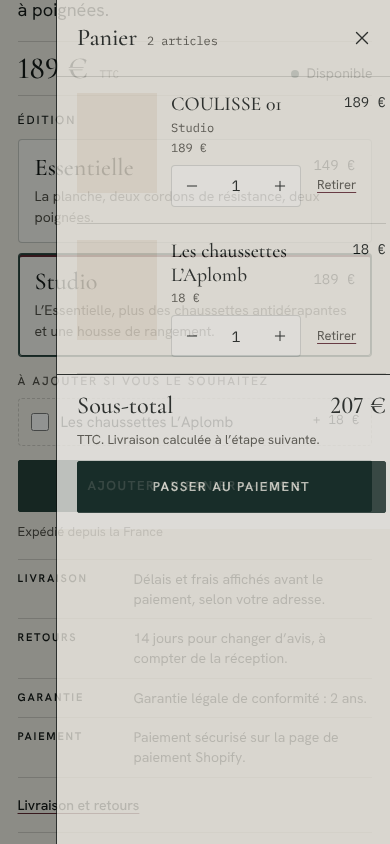
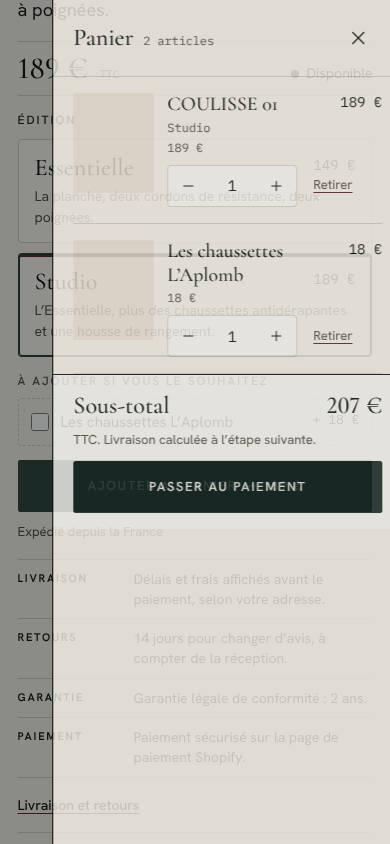
Liens vers les familles seulement si la collection est publiée
Sur l'aperçu Shopify, une collection non publiée reste lisible en Liquid mais
sa page renvoie une 404 : on exige désormais published_at. En-tête et menu
mobile masqués quand aucun lien n'est visible. Serveur d'aperçu aligné sur ce
comportement ; test ajouté. Documentation : quiz et mesure.

Claude-Session: https://claude.ai/code/session_01JVxC767RbYfVA3orWDdFnz

diff --git a/tools/apercu/serveur.js b/tools/apercu/serveur.js
@@ -6,9 +6,9 @@
  *
  * Usage : MODE=vente PORT=8765 node tools/apercu/serveur.js
  *   MODE      waitlist | reservation | vente (défaut : vente)
- *   PRODUITS  presents (défaut) | absents  (simule des produits en brouillon :
- *             les réglages produit et collection sont vides, comme sur la
- *             boutique tant que rien n’est publié)
+ *   PRODUITS  presents (défaut) | absents  (simule des produits en brouillon et
+ *             des collections non publiées, comme sur la boutique avant
+ *             l’ouverture : produits vides en Liquid, collections sans published_at)
  *
  * Routes : /  /products/:handle  /collections/:handle  /pages/trouver-mon-equipement
  *          /cart  /checkout  POST /cart/add.js  /cart/change.js  /cart  /contact
@@ -107,7 +107,7 @@ const parHandle = (h) => (ABSENTS ? null : CATALOGUE.find((p) => p.handle === h)
 const toutesVariantes = () => CATALOGUE.flatMap((p) => p.variants);
 
 const collection = (handle, title, produits, numero, description) => ({
-  id: handle.length * 1000, handle, title, url: `/collections/${handle}`, description,
+  id: handle.length * 1000, handle, title, url: `/collections/${handle}`, description, published_at: '2026-11-01T09:00:00Z',
   products: produits, products_count: produits.length, metafields: { aplomb: { numero } },
 });
 const COLLECTIONS = {
@@ -179,11 +179,14 @@ Object.assign(settings, {
   launch_mode: MODE,
   produit_principal: parHandle('coulisse-01'),
   produit_reservation: parHandle('reservation-prioritaire'),
-  collection_essentiels: ABSENTS ? null : COLLECTIONS['les-essentiels'],
-  collection_coulisse: ABSENTS ? null : COLLECTIONS.coulisse,
-  collection_atelier: ABSENTS ? null : COLLECTIONS['reformers-atelier'],
-  page_quiz: PAGES['trouver-mon-equipement'],
-  page_livraison: PAGES['livraison-et-retours'],
+  // Comme observé sur Shopify : une collection non publiée reste lisible en
+  // Liquid (sans published_at), mais sa page renvoie une 404 aux visiteurs.
+  collection_essentiels: ABSENTS ? { ...COLLECTIONS['les-essentiels'], published_at: null, products: [], products_count: 0 } : COLLECTIONS['les-essentiels'],
+  collection_coulisse: ABSENTS ? { ...COLLECTIONS.coulisse, published_at: null, products: [], products_count: 0 } : COLLECTIONS.coulisse,
+  collection_atelier: ABSENTS ? { ...COLLECTIONS['reformers-atelier'], published_at: null, products: [], products_count: 0 } : COLLECTIONS['reformers-atelier'],
+  // Une page non publiée est vide en Liquid (observé sur l’aperçu Shopify).
+  page_quiz: ABSENTS ? null : PAGES['trouver-mon-equipement'],
+  page_livraison: ABSENTS ? null : PAGES['livraison-et-retours'],
 });
 
 /* Résout les réglages typés (produit, collection, page, image…) d’un schéma. */

diff --git a/tools/tests/parcours.js b/tools/tests/parcours.js
@@ -264,6 +264,9 @@ const reinitialiser = (p, base = VENTE) => p.request.get(`${base}/__reinitialise
     ok(await p.locator('#liste-cloture').count() === 1, 'liste d’attente de clôture absente');
     ok(await p.locator('dialog[data-tiroir]').count() === 0, 'tiroir rendu en liste d’attente');
     ok(await p.locator('.famille__prix--attente').count() === 3, 'familles sans prix attendues');
+    ok(await p.locator('.lien-famille').count() === 0, 'lien vers une collection non publiée (404)');
+    ok(await p.locator('.famille__lien').count() === 0, 'carte de famille liée à une collection non publiée');
+    ok(await p.locator('details.menu-mobile').count() === 0, 'menu mobile vide affiché');
     const q = p.locator('aplomb-quiz');
     for (const t of ['routine', 'déjà', 'compact', 'polyvalente']) {
       await q.locator('.quiz__option:visible', { hasText: t }).click();

diff --git a/docs/analytics.md b/docs/analytics.md
@@ -1,0 +1,84 @@
+# Mesure et plan de marquage
+
+## Principe
+
+- **Shopify émet lui-même les événements standard** : `page_viewed`, `product_viewed`, `collection_viewed`, `product_added_to_cart`, `cart_viewed`, `checkout_started`, `checkout_completed`. Ils couvrent aussi les ajouts faits par le panier AJAX. Le thème ne les republie pas, donc il n’y a ni doublon ni achat compté deux fois.
+- **Le thème publie ses propres événements**, préfixés `aplomb_`, avec `Shopify.analytics.publish(nom, données)`. Ils arrivent aux pixels personnalisés, qui appliquent le consentement de la Customer Privacy API (bandeau cookies natif de Shopify).
+- **Les mêmes événements sont poussés dans `window.dataLayer`** de la page. C’est utile pour le débogage, mais le thème ne charge aucun script tiers et n’envoie rien de lui-même.
+- **Aucune donnée personnelle** n’entre dans les événements du thème : ni e-mail, ni nom, ni réponse libre.
+
+## Événements du thème
+
+| Événement | Source | Données |
+|---|---|---|
+| `aplomb_cta_click` | Liens `data-suivi` du hero | `cta` (`hero_produit`, `hero_quiz`), `href` |
+| `aplomb_quiz_started` | Quiz | `quiz_id`, `mode` |
+| `aplomb_quiz_step_completed` | Quiz | `quiz_id`, `etape`, `question`, `reponse` |
+| `aplomb_quiz_completed` | Quiz | `quiz_id`, `reponses` |
+| `aplomb_recommendation_displayed` | Quiz | `quiz_id`, `famille`, `produit_id`, `produit_titre`, `famille_ecartee` |
+| `aplomb_recommendation_cta` | Quiz | `quiz_id`, `famille`, `action` |
+| `aplomb_quiz_exit` / `aplomb_quiz_restarted` | Quiz | `quiz_id`, `etape` |
+| `aplomb_ajout_panier_contexte` | Panier AJAX | `contexte` (id du formulaire : `achat-produit-…`, `achat-quiz-coulisse-…`, `achat-vedette-…`), `variant_id`, `quantite`, `complements` |
+| `aplomb_panier_ouvert` | Tiroir | — |
+
+`aplomb_ajout_panier_contexte` ne remplace pas `product_added_to_cart`. Il dit seulement **d’où** vient l’ajout : fiche produit, quiz ou produit vedette.
+
+## Correspondance GA4 et Meta
+
+| Étape du tunnel | Événement Shopify ou thème | GA4 | Meta |
+|---|---|---|---|
+| Vue de page | `page_viewed` | `page_view` | `PageView` |
+| Vue produit | `product_viewed` | `view_item` | `ViewContent` |
+| Quiz commencé | `aplomb_quiz_started` | `quiz_start` (personnalisé) | `aplomb_quiz_started` (personnalisé) |
+| Étape du quiz | `aplomb_quiz_step_completed` | `quiz_step` | — |
+| Quiz terminé | `aplomb_quiz_completed` | `quiz_complete` | `CompleteRegistration` (facultatif) |
+| Recommandation affichée | `aplomb_recommendation_displayed` | `view_promotion` ou `recommendation_view` | — |
+| Ajout au panier | `product_added_to_cart` | `add_to_cart` | `AddToCart` |
+| Début du paiement | `checkout_started` | `begin_checkout` | `InitiateCheckout` |
+| Achat | `checkout_completed` (**une seule source**) | `purchase` | `Purchase` |
+
+## Installer un pixel personnalisé
+
+Le code se colle dans Shopify > Réglages > Événements clients > Ajouter un pixel personnalisé. L’installation est gratuite.
+
+Pour les autorisations, choisir « Requis » pour l’analyse et pour le marketing. Shopify n’exécute alors le pixel qu’avec le consentement de la visiteuse.
+
+```js
+// Pixel personnalisé L’Aplomb : relaie événements standard et événements du thème.
+// Remplacer G-XXXXXXX par l’identifiant GA4 quand il existe. Ne rien coller d’autre ici.
+const GA4 = 'G-XXXXXXX';
+const s = document.createElement('script');
+s.async = true;
+s.src = `https://www.googletagmanager.com/gtag/js?id=${GA4}`;
+document.head.appendChild(s);
+window.dataLayer = window.dataLayer || [];
+function gtag() { dataLayer.push(arguments); }
+gtag('js', new Date());
+gtag('config', GA4, { send_page_view: false });
+
+const prixArticle = (v) => ({ item_id: v?.product?.id, item_name: v?.product?.title, item_variant: v?.title, price: v?.price?.amount });
+
+analytics.subscribe('page_viewed', () => gtag('event', 'page_view'));
+analytics.subscribe('product_viewed', (e) => {
+  const v = e.data.productVariant;
+  gtag('event', 'view_item', { currency: v.price.currencyCode, value: v.price.amount, items: [prixArticle(v)] });
+});
+analytics.subscribe('product_added_to_cart', (e) => {
+  const l = e.data.cartLine;
+  gtag('event', 'add_to_cart', { currency: l.cost.totalAmount.currencyCode, value: l.cost.totalAmount.amount, items: [{ ...prixArticle(l.merchandise), quantity: l.quantity }] });
+});
+analytics.subscribe('checkout_started', (e) => {
+  const c = e.data.checkout;
+  gtag('event', 'begin_checkout', { currency: c.currencyCode, value: c.totalPrice?.amount });
+});
+analytics.subscribe('checkout_completed', (e) => {
+  const c = e.data.checkout;
+  gtag('event', 'purchase', { transaction_id: c.order?.id, currency: c.currencyCode, value: c.totalPrice?.amount });
+});
+['aplomb_quiz_started', 'aplomb_quiz_step_completed', 'aplomb_quiz_completed', 'aplomb_recommendation_displayed',
+ 'aplomb_recommendation_cta', 'aplomb_ajout_panier_contexte'].forEach((nom) => {
+  analytics.subscribe(nom, (e) => gtag('event', nom, e.customData || {}));
+});
+```
+
+Ce code n’a pas été exécuté sur la boutique : aucun identifiant GA4 n’existe encore. Avant l’activation, il faut le vérifier avec le débogueur de pixels de Shopify et le DebugView de GA4.

diff --git a/docs/quiz.md b/docs/quiz.md
@@ -1,0 +1,80 @@
+# Le quiz « Trouver mon équipement »
+
+Section : `sections/aplomb-quiz.liquid`. Script : `assets/aplomb-quiz.js`, chargé seulement par cette section.
+On le trouve à deux endroits : sur l’accueil (disposition « Intégré ») et sur la page `trouver-mon-equipement`, qui utilise le modèle `page.pilates-quiz` (disposition « Page dédiée »).
+
+## Ce que voit la visiteuse
+
+1. Quatre questions, une à la fois. La barre de progression a 4 segments et le texte « Question n sur 4 » est annoncé aux lecteurs d’écran.
+2. **Au toucher ou au clic**, choisir une réponse passe à la question suivante après 220 ms, sans délai si l’utilisateur a demandé moins de mouvement.
+3. **Au clavier**, les flèches changent la réponse sans rien valider. Entrée ou le bouton « Continuer » valide.
+4. « Continuer » sans réponse affiche un message (`role="alert"`) et place le focus sur la première réponse.
+5. « Retour » revient à la question précédente sans perdre les réponses.
+6. Le lien « Passer et voir la boutique » reste visible à chaque étape. Le quiz n’est jamais obligatoire.
+7. Le résultat affiche :
+   - le produit recommandé, avec son prix réel ;
+   - le bouton d’achat ou la liste d’attente, selon l’état du produit ;
+   - les arguments tirés des réponses ;
+   - les faits vérifiés : dimensions et poids, si les metafields sont remplis ;
+   - le récapitulatif des réponses ;
+   - « Refaire le quiz » ;
+   - une note médicale.
+
+## Mémoire et historique
+
+- Les réponses sont gardées dans `sessionStorage` (clé `aplomb-quiz:<identifiant>`) jusqu’à la fermeture de l’onglet. Aucune donnée personnelle n’y est enregistrée.
+- Au rechargement, la visiteuse retrouve son étape, ou son résultat.
+- **En page dédiée**, chaque étape crée une entrée d’historique, et le bouton Retour du navigateur revient à la question précédente.
+- **En disposition intégrée**, le quiz ne touche pas à l’historique.
+
+## Recommandation
+
+Chaque réponse oriente vers une ou deux familles. La question a un poids de 1 à 3. Une réponse qui oriente vers une famille donne `2 × poids` points à cette famille. Si elle oriente vers deux familles, chacune reçoit `poids` points.
+
+- **Égalité.** On départage par la famille de la question au poids le plus fort. Si l’égalité persiste, COULISSE l’emporte.
+- **Écart.** Une réponse peut écarter une famille. Par défaut, « Un petit espace » écarte les Reformers Atelier. Si la famille écartée arrivait en tête, on recommande la suivante, et le résultat explique pourquoi.
+
+Réglages par défaut (`tools/build_templates.py`) :
+
+| Question (poids) | Réponse | Oriente vers | Écarte |
+|---|---|---|---|
+| Objectif (1) | Renforcement et tonicité | Coulisse + Atelier | — |
+| | Mobilité et souplesse | Essentiels + Coulisse | — |
+| | Reprendre une activité régulière | Essentiels + Coulisse | — |
+| | Installer une routine Pilates chez soi | Coulisse | — |
+| Niveau (1) | Je débute | Essentiels + Coulisse | — |
+| | J’ai déjà pratiqué | Coulisse | — |
+| | Je pratique régulièrement | Coulisse + Atelier | — |
+| Équipement (3) | Un kit simple et accessible | Essentiels | — |
+| | Un appareil compact et polyvalent | Coulisse | — |
+| | Une expérience proche d’un studio | Atelier | — |
+| Espace (2) | Un petit espace | Essentiels + Coulisse | Atelier |
+| | Une pièce polyvalente | Coulisse + Atelier | — |
+| | Un espace dédié | Atelier | — |
+
+Cas testés (`tools/tests/parcours.js`) :
+
+- « compact » donne COULISSE ;
+- « kit simple » donne Les Essentiels ;
+- « studio » avec « petit espace » donne COULISSE, avec l’explication de l’écart.
+
+## Modifier le quiz dans l’éditeur de thème
+
+- Chaque question est un bloc, jusqu’à 6. Pour chacune, on règle l’identifiant de mesure, la question, l’aide et le poids.
+- Chaque bloc a jusqu’à 4 réponses. Pour chaque réponse, on règle le libellé, l’orientation, l’argument affiché dans le résultat et ce qu’elle écarte.
+- Dans les réglages de la section, on choisit le produit recommandé pour chaque famille et le texte « pourquoi ».
+- **Un produit en brouillon** n’existe pas pour la boutique. Le résultat affiche alors le nom de la famille et une liste d’attente taguée `quiz,<famille>`.
+
+## Mesure
+
+Événements publiés par `window.aplomb.suivre`. Le détail est dans `docs/analytics.md`.
+
+| Événement | Quand | Données |
+|---|---|---|
+| `aplomb_quiz_started` | Première réponse choisie | `quiz_id`, `mode` |
+| `aplomb_quiz_step_completed` | Étape validée (une seconde fois si on revient en arrière) | `etape`, `question`, `reponse` |
+| `aplomb_quiz_completed` | Résultat calculé | `reponses` (libellés) |
+| `aplomb_recommendation_displayed` | Résultat affiché | `famille`, `produit_id`, `produit_titre`, `famille_ecartee` |
+| `aplomb_recommendation_cta` | Clic sur un bouton ou lien du résultat | `famille`, `action` (`produit`, `famille`, `panier`, `liste_attente`) |
+| `aplomb_quiz_exit` | Clic sur « voir la boutique » | `etape` |
+| `aplomb_quiz_restarted` | « Refaire le quiz » | — |
